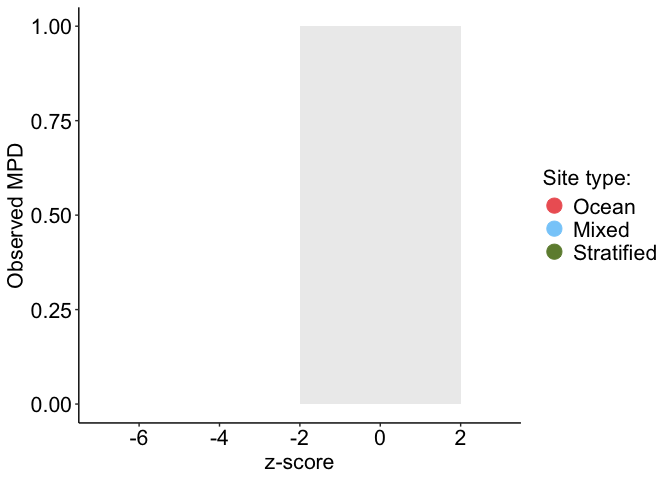
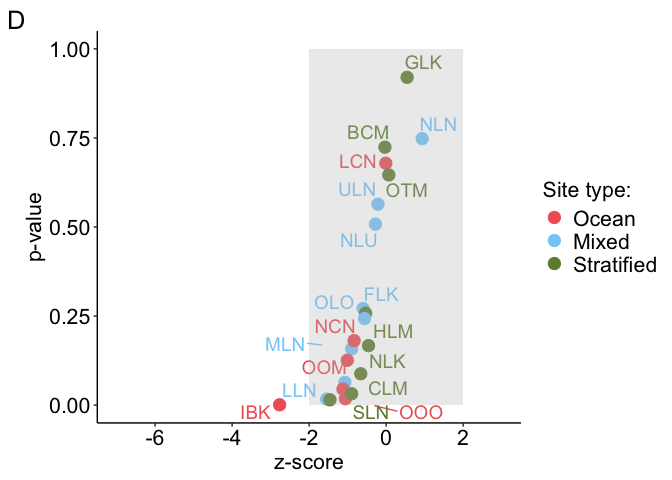
Add files via upload

diff --git a/analyses/PD/PD_analyses.md b/analyses/PD/PD_analyses.md
@@ -15,7 +15,7 @@ knit("/Users/bailey/Documents/research/fish_biodiversity/src/collection/load_col
     ## 
     ## processing file: /Users/bailey/Documents/research/fish_biodiversity/src/collection/load_collection_data.Rmd
 
-    ##   |                  |          |   0%  |                  |          |   3%                                                                          |                  |.         |   7% [Bringing everything together load modifying files packages]             |                  |.         |  10%                                                                          |                  |.         |  13% [Bringing everything together load in modifying files]                   |                  |..        |  17%                                                                          |                  |..        |  20% [Check species names across files]                                       |                  |..        |  23%                                                                          |                  |...       |  27% [Modify environment data]                                                |                  |...       |  30%                                                                          |                  |...       |  33% [Modify incidence matrices]                                              |                  |....      |  37%                                                                          |                  |....      |  40% [Modify phylogeny]                                                       |                  |....      |  43%                                                                          |                  |.....     |  47% [Modify trait data]                                                      |                  |.....     |  50%                                                                          |                  |.....     |  53% [Modify Site_type data frames]                                           |                  |......    |  57%                                                                          |                  |......    |  60% [Modify Site_type trait data]                                            |                  |......    |  63%                                                                          |                  |.......   |  67% [Site_type trait data tests]                                             |                  |.......   |  70%                                                                          |                  |.......   |  73% [Modify site trait data frames]                                          |                  |........  |  77%                                                                          |                  |........  |  80% [Site trait data tests]                                                  |                  |........  |  83%                                                                          |                  |......... |  87% [unnamed-chunk-5]                                                        |                  |......... |  90%                                                                          |                  |......... |  93% [unnamed-chunk-6]                                                        |                  |..........|  97%                                                                          |                  |..........| 100% [Bringing everything together load out modified files and session info]
+    ##   |                  |          |   0%  |                  |          |   3%                                                                          |                  |.         |   7% [Bringing everything together load modifying files packages]             |                  |.         |  10%                                                                          |                  |.         |  13% [Bringing everything together load in modifying files]                   |                  |..        |  17%                                                                          |                  |..        |  20% [Check species names across files]                                       |                  |..        |  23%                                                                          |                  |...       |  27% [Modify environment data]                                                |                  |...       |  30%                                                                          |                  |...       |  33% [Modify incidence matrices]                                              |                  |....      |  37%                                                                          |                  |....      |  40% [Modify phylogeny]                                                       |                  |....      |  43%                                                                          |                  |.....     |  47% [Modify trait data]                                                      |                  |.....     |  50%                                                                          |                  |.....     |  53% [Modify Site_type data frames]                                           |                  |......    |  57%                                                                          |                  |......    |  60% [Modify Site_type trait data]                                            |                  |......    |  63%                                                                          |                  |.......   |  67% [Site_type trait data tests]                                             |                  |.......   |  70%                                                                          |                  |.......   |  73% [Modify site trait data frames]                                          |                  |........  |  77%                                                                          |                  |........  |  80% [Site trait data tests]                                                  |                  |........  |  83%                                                                          |                  |......... |  87% [unnamed-chunk-6]                                                        |                  |......... |  90%                                                                          |                  |......... |  93% [unnamed-chunk-7]                                                        |                  |..........|  97%                                                                          |                  |..........| 100% [Bringing everything together load out modified files and session info]
 
     ## output file: /Users/bailey/Documents/research/fish_biodiversity/src/collection/load_collection_data.md
 
@@ -4986,6 +4986,48 @@ p.adjust.envfit <- function (x, method = 'bonferroni', n)
 }
 ```
 
+### PD beta varitation partitioning of env and geo variables
+
+``` r
+env_var <- env[surveyed_sites_env,environment]
+geo_var <- env[surveyed_sites_env,geography]
+PD_beta_varpart <- varpart(PD_beta_env_dist$Btotal, env_var, geo_var)
+PD_beta_varpart$part
+```
+
+    ## No. of explanatory tables: 2 
+    ## Total variation (SS): 4.0404 
+    ## No. of observations: 19 
+    ## 
+    ## Partition table:
+    ##                      Df R.squared Adj.R.squared Testable
+    ## [a+c] = X1            3   0.47525       0.37029     TRUE
+    ## [b+c] = X2            3   0.37226       0.24671     TRUE
+    ## [a+b+c] = X1+X2       6   0.61810       0.42715     TRUE
+    ## Individual fractions                                    
+    ## [a] = X1|X2           3                 0.18044     TRUE
+    ## [b] = X2|X1           3                 0.05686     TRUE
+    ## [c]                   0                 0.18986    FALSE
+    ## [d] = Residuals                         0.57285    FALSE
+    ## ---
+    ## Use function 'dbrda' to test significance of fractions of interest
+
+``` r
+# Open a jpg device
+png("/Users/bailey/Documents/research/fish_biodiversity/figures/PD/PD_beta_varpart.jpg", width = 4.5, height = 4.5, units = "in", res = 300, type = "cairo")
+# Plot the variation partitioning results
+plot(PD_beta_varpart,
+     Xnames = c("Environmental", "Geographical"), # name the partitions
+     bg = c("mediumpurple", "orange"), alpha = 80, # colour the circles
+     digits = 1, # only show 2 digits
+     cex = 1)
+# Close the jpg device
+dev.off()
+```
+
+    ## quartz_off_screen 
+    ##                 2
+
 ### PD beta env and geo correlated variables using envfit
 
 ``` r
@@ -6852,7 +6894,7 @@ stree_sesmpd_plot
     ## Warning: ggrepel: 3 unlabeled data points (too many overlaps). Consider
     ## increasing max.overlaps
 
-![](PD_analyses_files/figure-gfm/unnamed-chunk-1-1.png)<!-- -->
+![](PD_analyses_files/figure-gfm/unnamed-chunk-2-1.png)<!-- -->
 
 ``` r
 ggsave("/Users/bailey/Documents/research/fish_biodiversity/figures/PD/stree_sesmpd_plot_z.jpg", stree_sesmpd_plot, width = 5, height = 4, units = "in")
@@ -6888,7 +6930,7 @@ stree_sesmntd_plot
     ## Warning: ggrepel: 9 unlabeled data points (too many overlaps). Consider
     ## increasing max.overlaps
 
-![](PD_analyses_files/figure-gfm/unnamed-chunk-1-2.png)<!-- -->
+![](PD_analyses_files/figure-gfm/unnamed-chunk-2-2.png)<!-- -->
 
 ``` r
 ggsave("/Users/bailey/Documents/research/fish_biodiversity/figures/PD/stree_sesmntd_plot_z.jpg", stree_sesmntd_plot, width = 5, height = 4, units = "in")
@@ -6924,7 +6966,7 @@ stree_sespd_plot
     ## Warning: ggrepel: 9 unlabeled data points (too many overlaps). Consider
     ## increasing max.overlaps
 
-![](PD_analyses_files/figure-gfm/unnamed-chunk-1-3.png)<!-- -->
+![](PD_analyses_files/figure-gfm/unnamed-chunk-2-3.png)<!-- -->
 
 ``` r
 ggsave("/Users/bailey/Documents/research/fish_biodiversity/figures/PD/stree_sespd_plot_z.jpg", stree_sespd_plot, width = 5, height = 4, units = "in")
@@ -6961,7 +7003,7 @@ stree_sesmpd_plot
     ## Warning: Removed 22 rows containing missing values or values outside the scale range
     ## (`geom_point()`).
 
-![](PD_analyses_files/figure-gfm/unnamed-chunk-2-1.png)<!-- -->
+![](PD_analyses_files/figure-gfm/unnamed-chunk-3-1.png)<!-- -->
 
 ``` r
 ggsave("/Users/bailey/Documents/research/fish_biodiversity/figures/PD/stree_sesmpd_plot_obs+z.jpg", stree_sesmpd_plot, width = 5, height = 4, units = "in")
@@ -6996,7 +7038,7 @@ stree_sesmntd_plot
     ## Warning: Removed 22 rows containing missing values or values outside the scale range
     ## (`geom_point()`).
 
-![](PD_analyses_files/figure-gfm/unnamed-chunk-2-2.png)<!-- -->
+![](PD_analyses_files/figure-gfm/unnamed-chunk-3-2.png)<!-- -->
 
 ``` r
 ggsave("/Users/bailey/Documents/research/fish_biodiversity/figures/PD/stree_sesmntd_plot_obs+z.jpg", stree_sesmntd_plot, width = 5, height = 4, units = "in")
@@ -7031,7 +7073,7 @@ stree_sespd_plot
     ## Warning: Removed 22 rows containing missing values or values outside the scale range
     ## (`geom_point()`).
 
-![](PD_analyses_files/figure-gfm/unnamed-chunk-2-3.png)<!-- -->
+![](PD_analyses_files/figure-gfm/unnamed-chunk-3-3.png)<!-- -->
 
 ``` r
 ggsave("/Users/bailey/Documents/research/fish_biodiversity/figures/PD/stree_sespd_plot_obs+z.jpg", stree_sespd_plot, width = 5, height = 4, units = "in")
